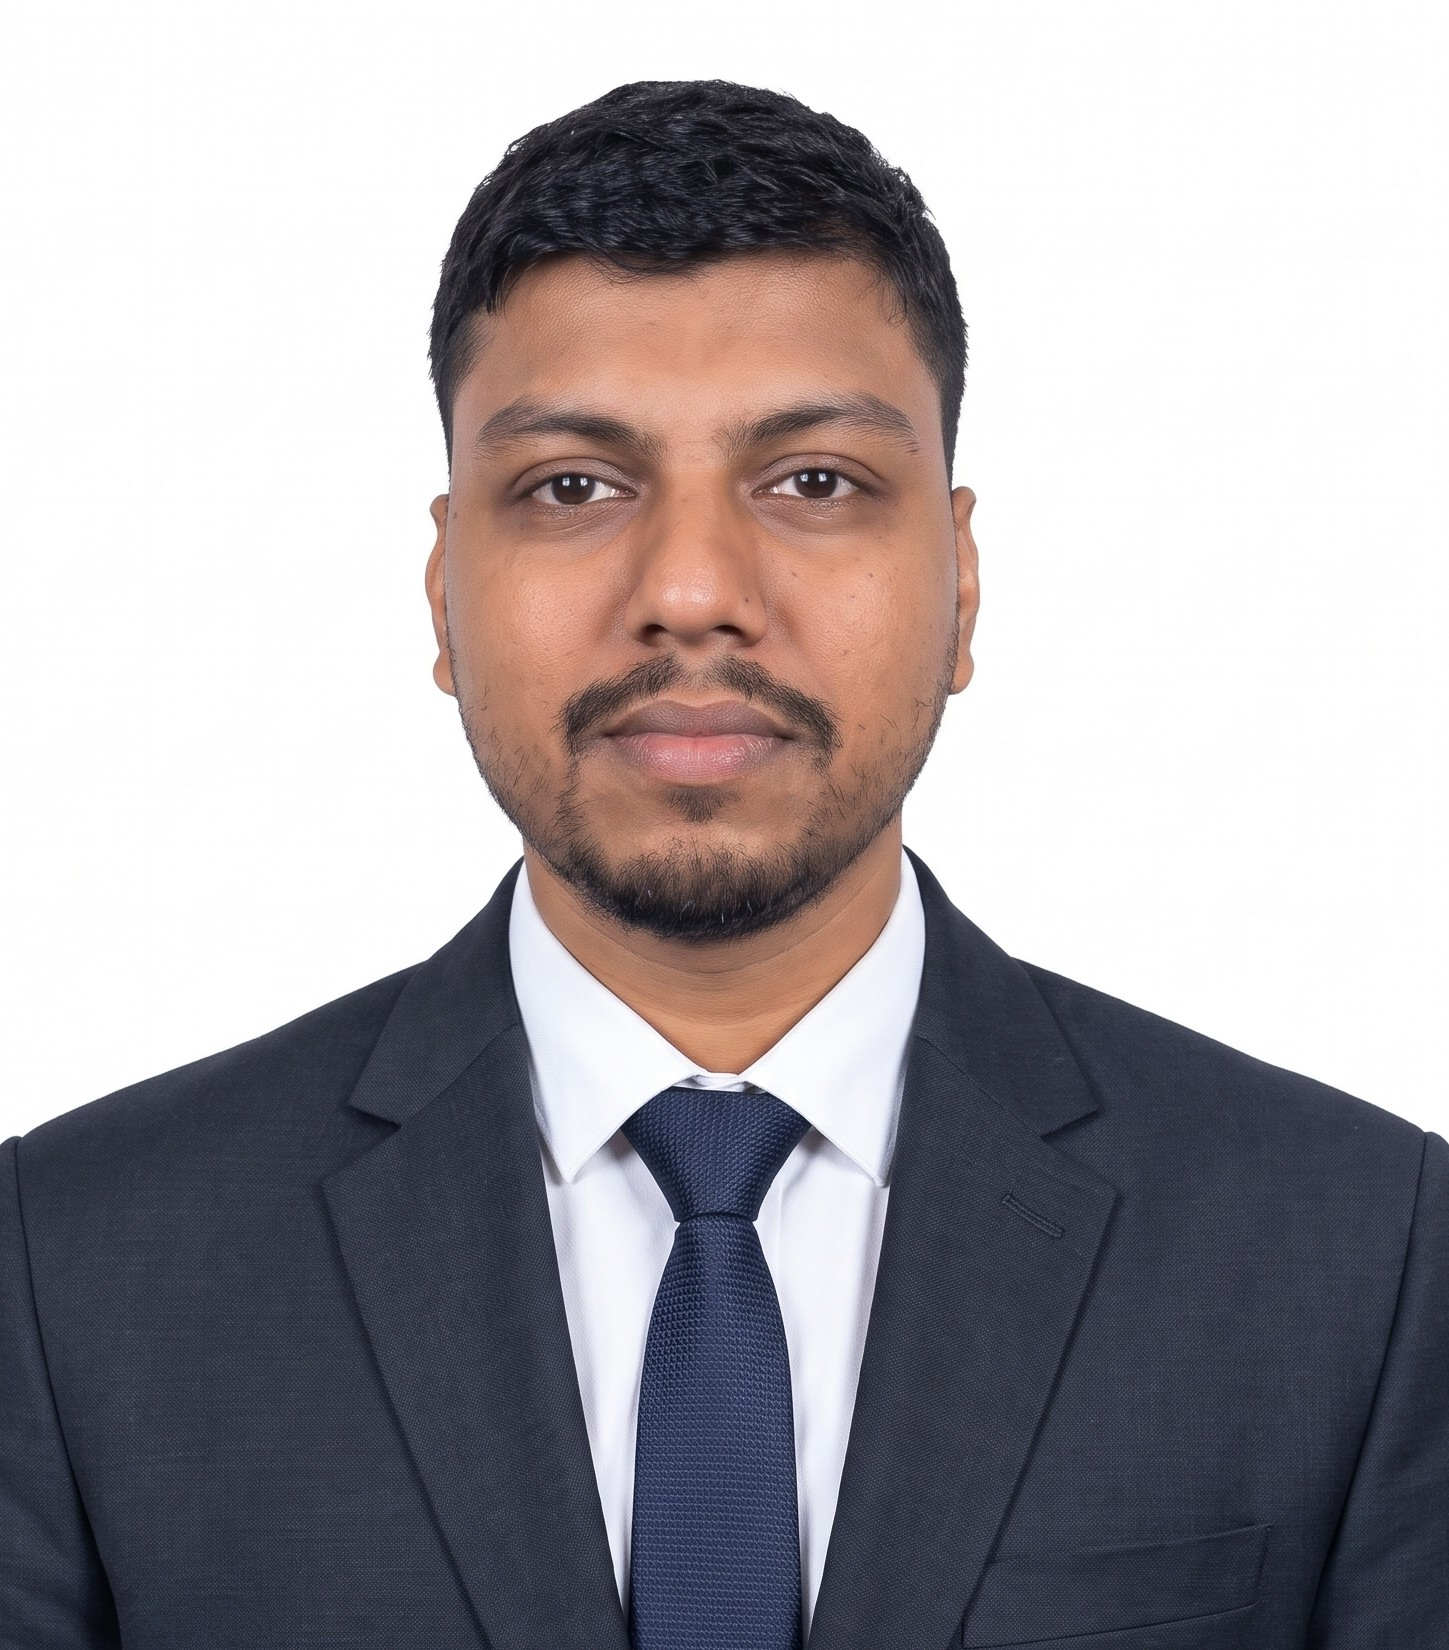
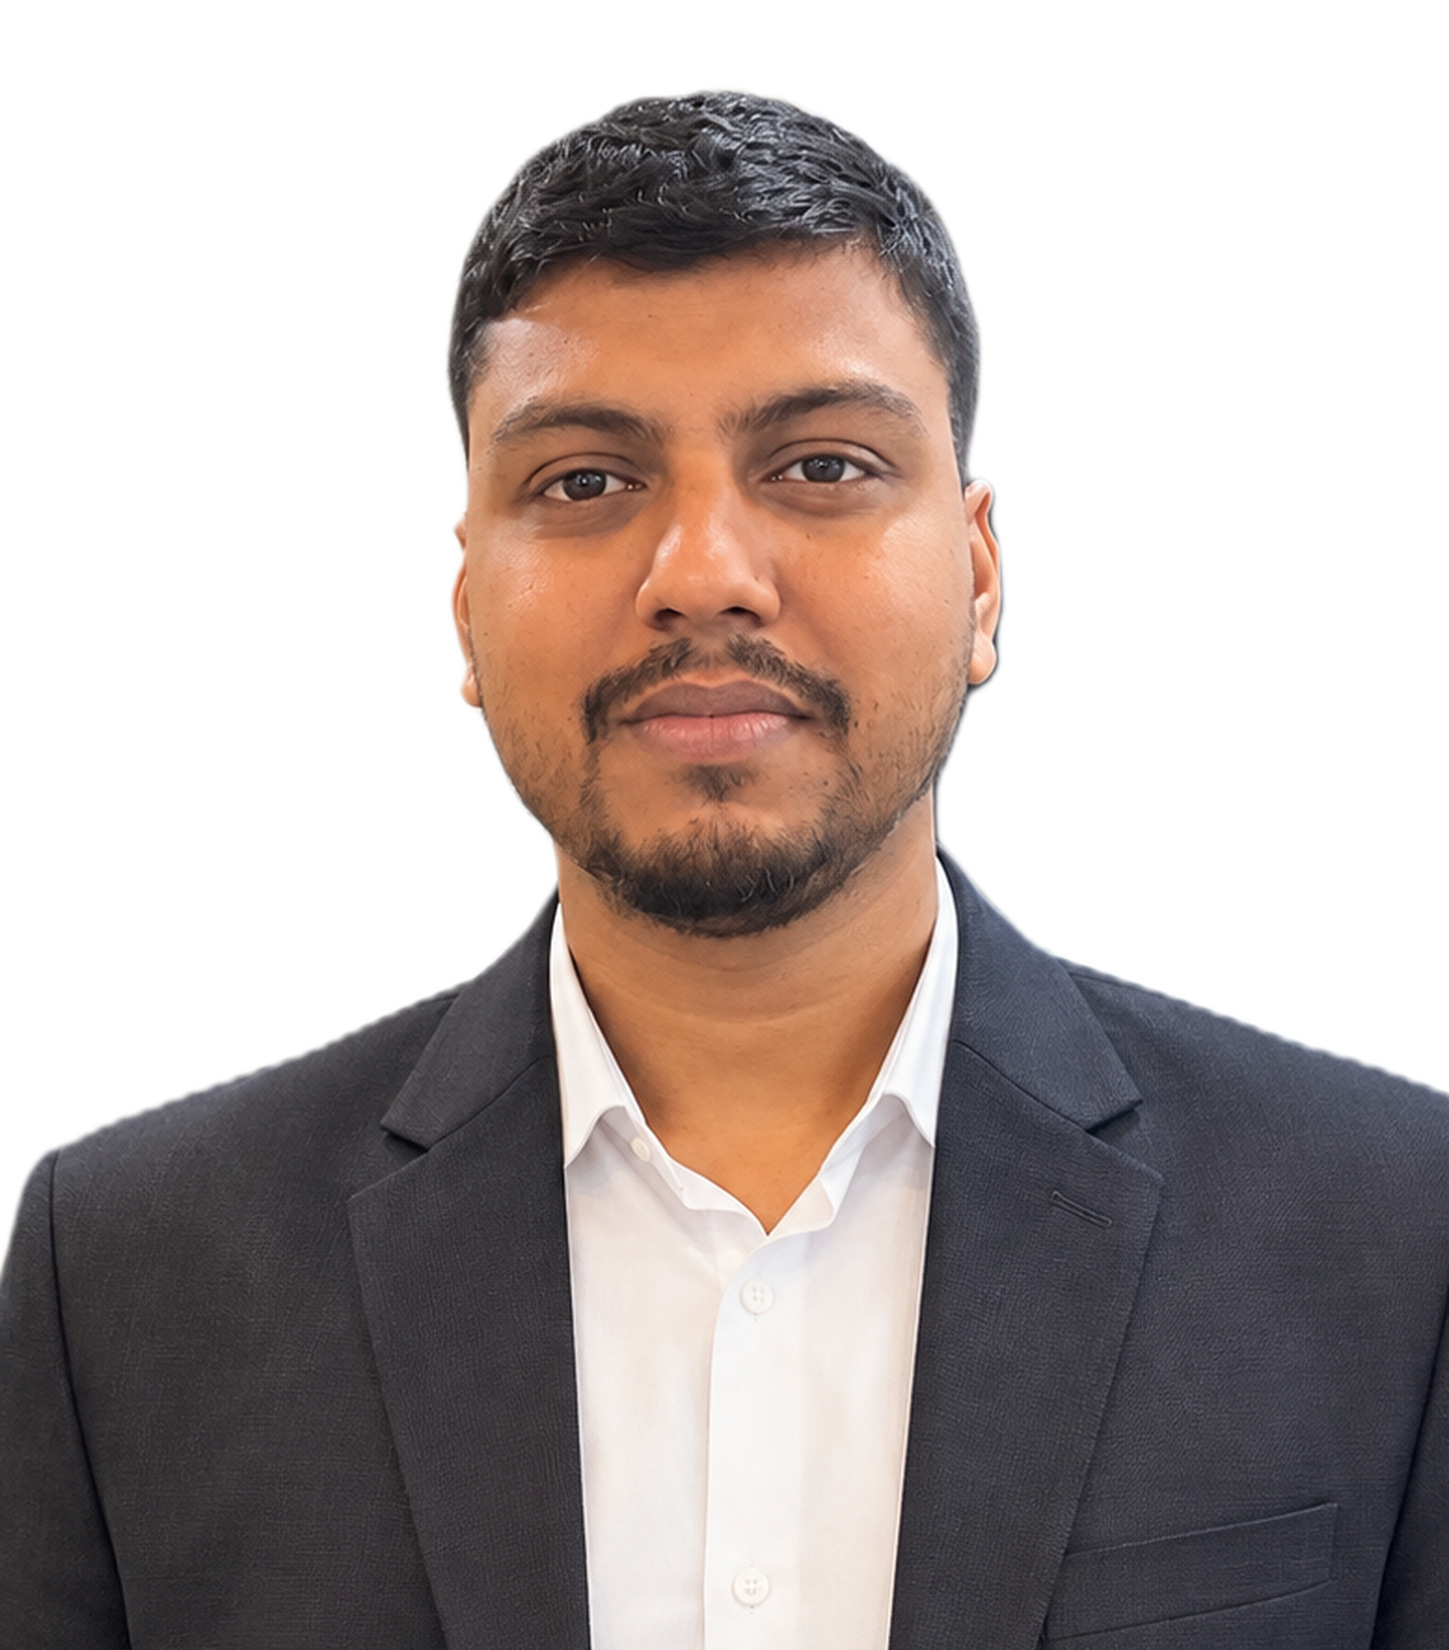
Rifat: office photo with white background, framed like his studio photo (1449x1650)
Background replaced with white (face untouched); crown and head size match the studio photo.

Claude-Session: https://claude.ai/code/session_01UDxf83DZEieHL3nAP2dbYZ

Changed region(s): [[0.0, 0.0309, 1.0, 1.0]]

diff --git a/src/content/xfl2/portrait-previous.ts b/src/content/xfl2/portrait-previous.ts
@@ -30,7 +30,7 @@ export const PREVIOUS_PORTRAITS: Record<string, string | string[]> = {
[8 lines of base64/hex data omitted]

diff --git a/src/content/xfl2/portrait-focus.ts b/src/content/xfl2/portrait-focus.ts
@@ -36,7 +36,7 @@ export const PORTRAIT_FOCUS: Record<string, { x: number; y: number; zoom?: numbe
   "mohd-shaahed-imran": { x: 0.49, y: 0.4 }, // photo confirmed by XFL 20 Oct 2026
   "muhammad-shamsul-maruf": { x: 0.5, y: 0.4 }, // new photo 19 Oct 2026
   "nafis-hasan-khan": { x: 0.506, y: 0.426, zoom: 1.06 },
-  "najmul-hasan-rifat": { x: 0.48, y: 0.37 }, // new photo 29 Oct 2026
+  "najmul-hasan-rifat": { x: 0.5, y: 0.36 }, // office photo, white background, 29 Oct 2026
   "md-wahidul-alam": { x: 0.5, y: 0.4 }, // first photo 29 Oct 2026
   "saikat-biswas": { x: 0.5, y: 0.37 }, // new photo 19 Oct 2026
   "shaleh-akram": { x: 0.5, y: 0.45 }, // photo of 19 Oct 2026 (evening)

diff --git a/prisma/seed-content.ts b/prisma/seed-content.ts
@@ -3203,7 +3203,8 @@ async function seedMikaHeadCard() {
 }
 
 // ── 29 Oct (XFL): full-resolution photos of Najmul Hasan Rifat and Md. Wahidul Alam ──
-// The copies uploaded in the admin looked soft; these are the originals (1449×1650, 1792×2400).
+// The copies uploaded in the admin looked soft. Rifat: his office photo with the background made white
+// (face untouched), framed like his studio photo (1449×1650). Wahidul: the original (1792×2400).
 // Each person's photo is set to the file in prisma/seed-media/people with its face point; the
 // earlier upload stays in Admin → Media.
 async function seedSharpPortraits() {
